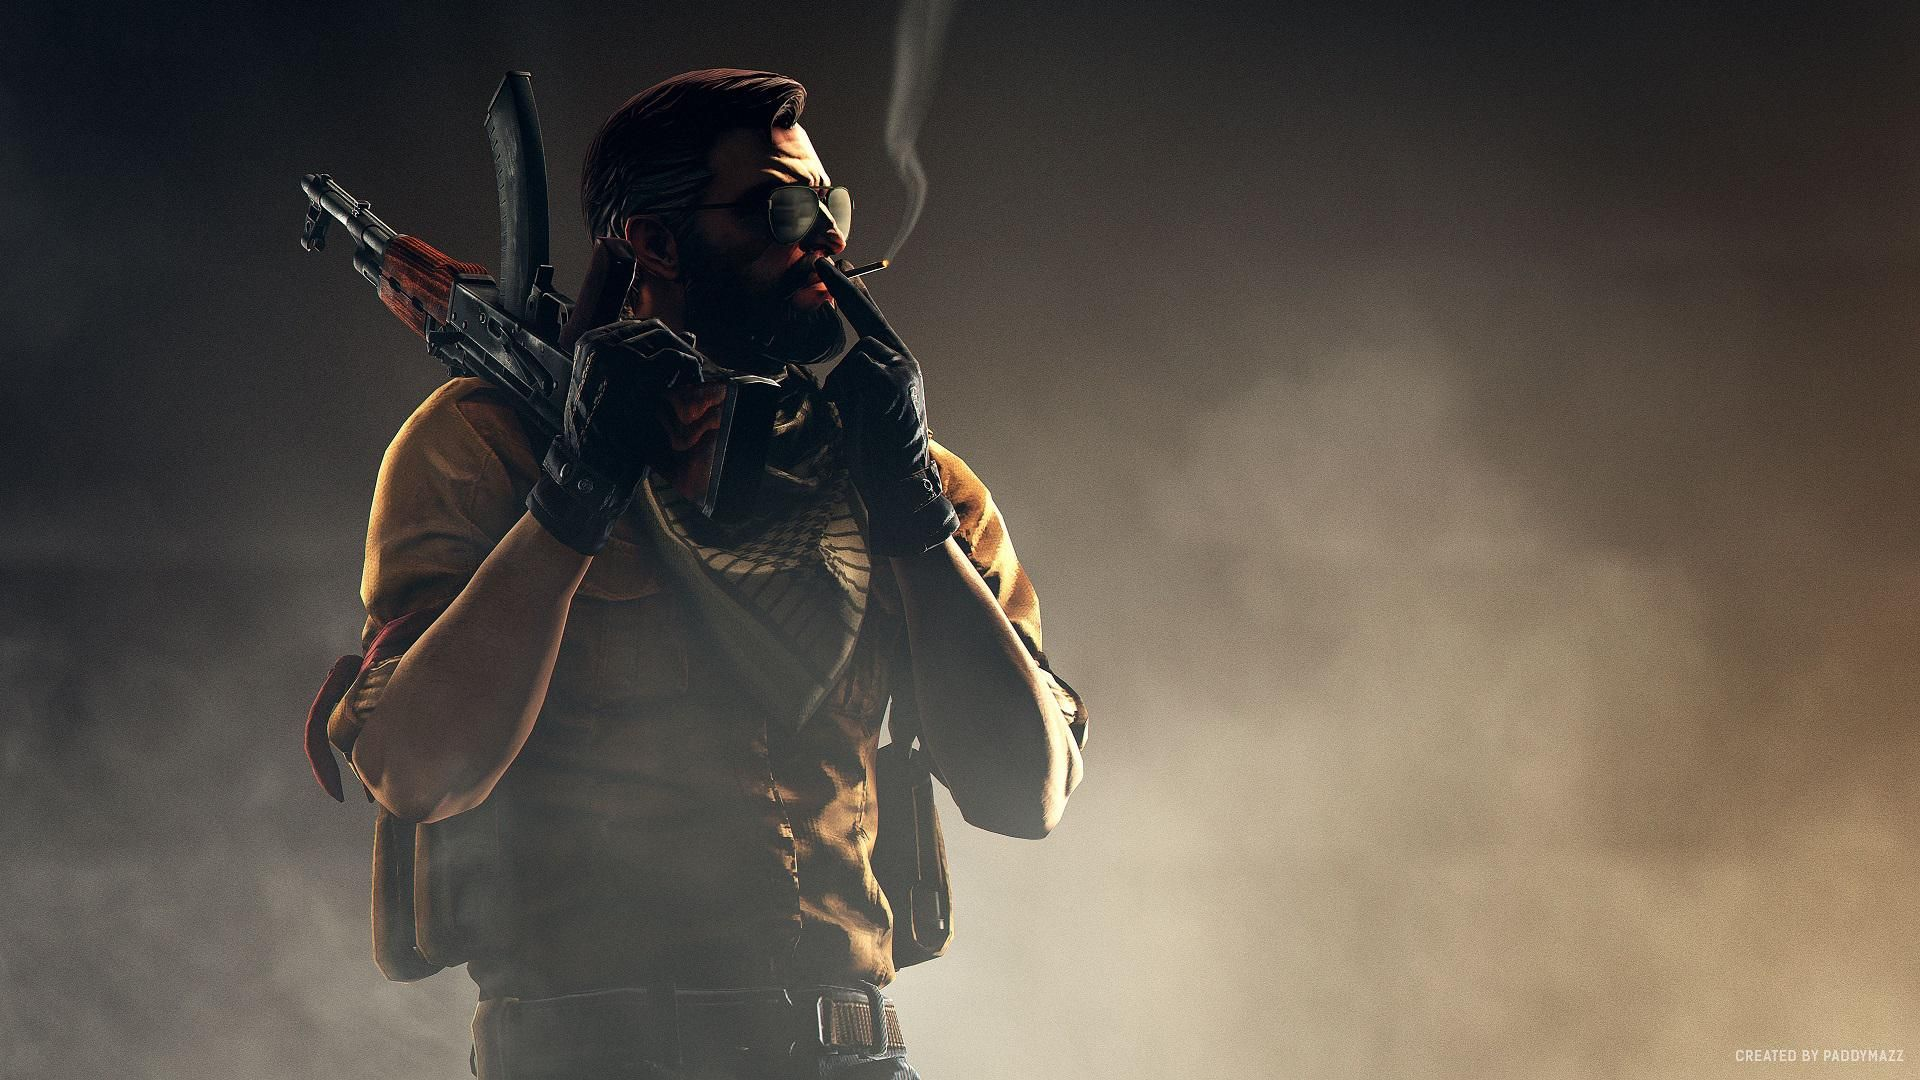
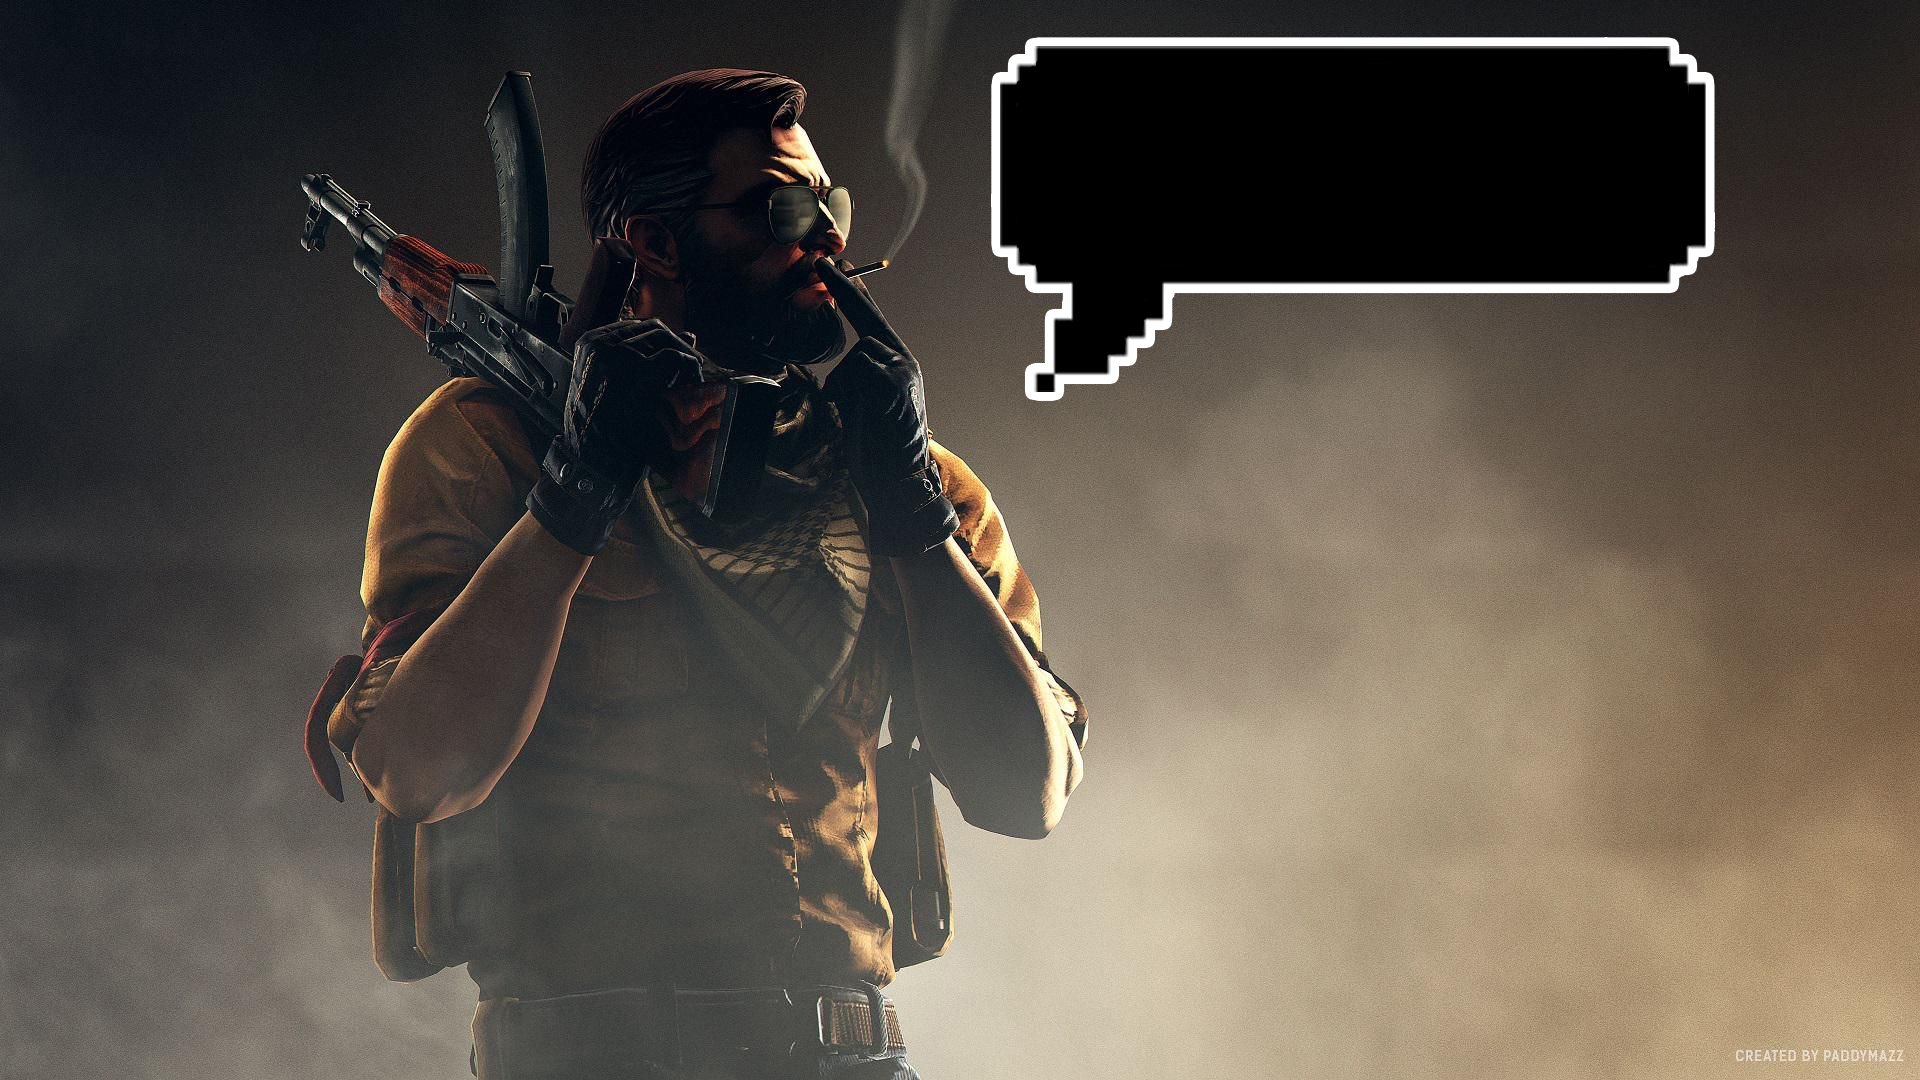
fixed font and updated image

Changed region(s): [[0.5, 0.0306, 0.9062, 0.3667]]

diff --git a/app.js b/app.js
@@ -1,23 +1,29 @@
 const Discord = require("discord.js")
 const { create_caption } = require("./src/create-caption")
 const { make_appoitment } = require("./src/picture-creator")
-const client = new Discord.client()
+const client = new Discord.Client()
 
 client.on("ready", () => {
     console.log("ready!");
 })
 
-client.on("message", (msg) => {
-    if (msg.content.startsWith("cs darim ")) {
-
-        const time = msg.content.slice(msg.content.indexOf("m") + 2)
-        const caption = create_caption(time)
-        make_appoitment(caption)
-        msg.channel.send(new Discord.Attachment('./assets/pics/csgo.jpg', 'csgo.jpg'))
-            .then((message) => {
-                message.react("@Alineo @Heydar")
+client.on("message", async (msg) => {
+    const isValidUser = ["Shahryar.JL", "Alineo", "heydar"].includes(msg.author.username)
+    if (msg.content.startsWith("cs darim ") && isValidUser) {
+        try {
+            const time = msg.content.slice(msg.content.indexOf("m") + 2)
+            const caption = create_caption(time)
+            await make_appoitment(caption)
+            const message = await msg.channel.send({
+                files: [{
+                    attachment: "./assets/pics/csgo.jpg",
+                    name: 'csgo.jpg'
+                }]
             })
-            
+            await message.channel.send('<@&844111348057112587>')
+        } catch (error) {
+            console.log(error)
+        }
     }
 })
 

diff --git a/src/create-caption.js b/src/create-caption.js
@@ -1,31 +1,28 @@
-const moment = require("moment")
-
 function create_caption(time) {
-    const date = moment()
-    let caption;
-    switch (date.day()) {
+    let caption;  
+    switch (new Date().getDay()) {
         case 0:
-            caption = "یکشنبه";
+            caption = "Sunday";
             break;
         case 1:
-            caption = "دوشنبه";
+            caption = "Monday";
             break;
         case 2:
-            caption = "سه شنبه";
+            caption = "Tuesday";
             break;
         case 3:
-            caption = "چهارشنبه";
+            caption = "Wednesday";
             break;
         case 4:
-            caption = "پنجشنبه";
+            caption = "Thursday";
             break;
         case 5:
-            caption = "جمعه";
+            caption = "Friday";
             break;
         case 6:
-            caption = "شنبه";
+            caption = "Saturday";
     }
-    caption = caption + time
+    caption = caption + "  " + time
     return caption
 }
 

diff --git a/src/picture-creator.js b/src/picture-creator.js
@@ -2,12 +2,14 @@ const Jimp = require("jimp")
 const { random_quote } = require("./random-quote")
 
 async function make_appoitment(caption) {
-
-    const image = await Jimp.read("../assets/pics/rawcsgo.jpg")
-    const font = await Jimp.loadFont(Jimp.FONT_SANS_64_WHITE)
-    image.print(font, 1400, 500, caption)
-    image.print(font, 1200, 500, random_quote()).write("../assets/pics/csgo.jpg")
-
+    try {
+        const image = await Jimp.read("./assets/pics/rawcsgo.jpg")
+        const font = await Jimp.loadFont("./assets/fonts/font.fnt")
+        image.print(font, 1150, 160, caption)
+        image.print(font, 1150, 90, random_quote()).write("./assets/pics/csgo.jpg")
+    } catch (error) {
+        console.log(error)
+    }
 }
 
 module.exports = {

diff --git a/src/random-quote.js b/src/random-quote.js
@@ -1,9 +1,9 @@
 const fs = require("fs")
 
 function random_quote() {
-    const text = fs.readFileSync("../assets/txt/quotes.txt", "utf-8")
+    const text = fs.readFileSync("./assets/txt/quotes.txt", "utf-8")
     const quotes = text.split("\r\n")
-    const randomIndex = Math.floor(Math.random() * (quotes.length - 1))
+    const randomIndex = Math.floor(Math.random() * (quotes.length))
     return quotes[randomIndex]
 }
 
